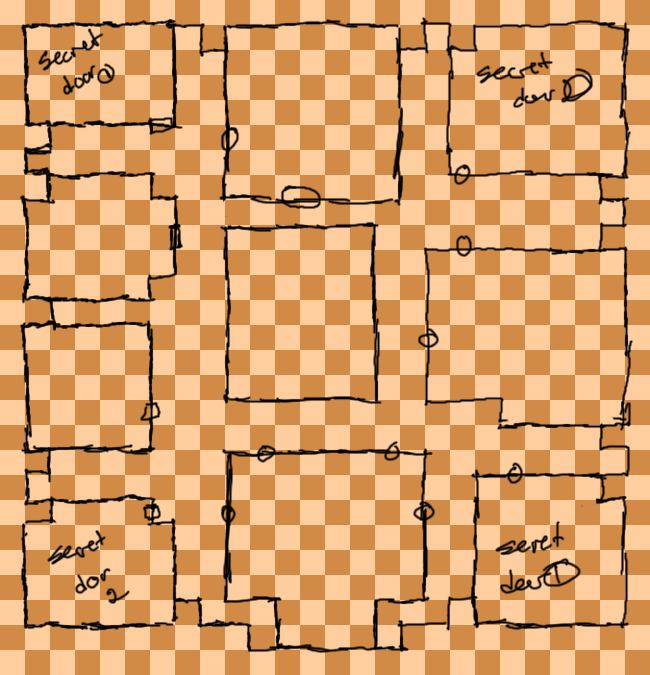
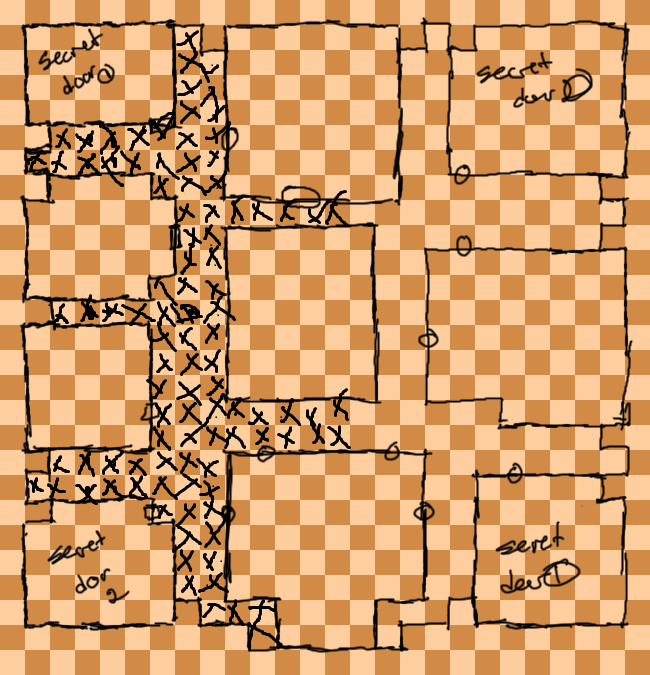
Added Graph Points

Changed region(s): [[0.0308, 0.0311, 0.5538, 0.9644], [0.4, 0.8711, 0.4308, 0.9022]]

diff --git a/js/classes/game.js b/js/classes/game.js
@@ -205,7 +205,155 @@ function Game(arr)
 	this.spaces.addEdge(new Point(6,19), new Point(7,19));
 	this.spaces.addEdge(new Point(6,19), "Cave");
 	
+	// x = 7
+	this.spaces.addEdge(new Point(7,1), new Point(7,2));
+	this.spaces.addEdge(new Point(7,2), new Point(8,2));
+	this.spaces.addEdge(new Point(7,2), new Point(7,3));
+	this.spaces.addEdge(new Point(7,3), new Point(8,3));
+	this.spaces.addEdge(new Point(7,3), new Point(7,4));
+	this.spaces.addEdge(new Point(7,4), new Point(8,4));
+	this.spaces.addEdge(new Point(7,4), new Point(7,5));
+	this.spaces.addEdge(new Point(7,5), new Point(8,5));
+	this.spaces.addEdge(new Point(7,5), new Point(7,6));
+	this.spaces.addEdge(new Point(7,6), new Point(8,6));
+	this.spaces.addEdge(new Point(7,6), new Point(7,7));
+	this.spaces.addEdge(new Point(7,7), new Point(8,7));
+	this.spaces.addEdge(new Point(7,7), new Point(7,8));
+	this.spaces.addEdge(new Point(7,8), new Point(8,8));
+	this.spaces.addEdge(new Point(7,8), new Point(7,9));
+	this.spaces.addEdge(new Point(7,9), new Point(8,9));
+	this.spaces.addEdge(new Point(7,9), "Tent");
+	this.spaces.addEdge(new Point(7,9), new Point(7,10));
+	this.spaces.addEdge(new Point(7,10), new Point(8,10));
+	this.spaces.addEdge(new Point(7,10), new Point(7,11));
+	this.spaces.addEdge(new Point(7,11), new Point(8,11));
+	this.spaces.addEdge(new Point(7,11), new Point(7,12));
+	this.spaces.addEdge(new Point(7,12), new Point(8,12));
+	this.spaces.addEdge(new Point(7,12), new Point(7,13));
+	this.spaces.addEdge(new Point(7,13), new Point(8,13));
+	this.spaces.addEdge(new Point(7,13), new Point(7,14));
+	this.spaces.addEdge(new Point(7,14), new Point(8,14));
+	this.spaces.addEdge(new Point(7,14), new Point(7,15));
+	this.spaces.addEdge(new Point(7,15), new Point(8,15));
+	this.spaces.addEdge(new Point(7,15), new Point(7,16));
+	this.spaces.addEdge(new Point(7,16), new Point(8,16));
+	this.spaces.addEdge(new Point(7,16), new Point(7,17));
+	this.spaces.addEdge(new Point(7,17), new Point(8,17));
+	this.spaces.addEdge(new Point(7,17), new Point(7,18));
+	this.spaces.addEdge(new Point(7,18), new Point(8,18));
+	this.spaces.addEdge(new Point(7,18), new Point(7,19));
+	this.spaces.addEdge(new Point(7,19), new Point(8,19));
+	this.spaces.addEdge(new Point(7,19), new Point(7,20));
+	this.spaces.addEdge(new Point(7,20), new Point(8,20));
+	this.spaces.addEdge(new Point(7,20), new Point(7,21));
+	this.spaces.addEdge(new Point(7,21), new Point(8,21));
+	this.spaces.addEdge(new Point(7,21), new Point(7,22));
+	this.spaces.addEdge(new Point(7,22), new Point(8,22));
+	this.spaces.addEdge(new Point(7,22), new Point(7,23));
+	this.spaces.addEdge(new Point(7,23), new Point(8,23));
 	
+	// x = 8
+	this.spaces.addEdge(new Point(8,2), new Point(8,3));
+	this.spaces.addEdge(new Point(8,3), new Point(8,4));
+	this.spaces.addEdge(new Point(8,4), new Point(8,5));
+	this.spaces.addEdge(new Point(8,5), "Garden");
+	this.spaces.addEdge(new Point(8,5), new Point(8,6));
+	this.spaces.addEdge(new Point(8,6), new Point(8,7));
+	this.spaces.addEdge(new Point(8,7), new Point(8,8));
+	this.spaces.addEdge(new Point(8,8), new Point(9,8));
+	this.spaces.addEdge(new Point(8,8), new Point(8,9));
+	this.spaces.addEdge(new Point(8,9), new Point(8,10));
+	this.spaces.addEdge(new Point(8,10), new Point(8,11));
+	this.spaces.addEdge(new Point(8,11), new Point(8,12));
+	this.spaces.addEdge(new Point(8,13), new Point(8,14));
+	this.spaces.addEdge(new Point(8,14), new Point(8,15));
+	this.spaces.addEdge(new Point(8,15), new Point(8,16));
+	this.spaces.addEdge(new Point(8,16), new Point(9,16));
+	this.spaces.addEdge(new Point(8,16), new Point(8,17));
+	this.spaces.addEdge(new Point(8,17), new Point(9,17));
+	this.spaces.addEdge(new Point(8,17), new Point(8,18));
+	this.spaces.addEdge(new Point(8,18), new Point(8,19));
+	this.spaces.addEdge(new Point(8,19), new Point(8,20));
+	this.spaces.addEdge(new Point(8,20), "Forest");
+	this.spaces.addEdge(new Point(8,20), new Point(8,21));
+	this.spaces.addEdge(new Point(8,21), new Point(8,22));
+	this.spaces.addEdge(new Point(8,22), new Point(8,23));
+	this.spaces.addEdge(new Point(8,23), new Point(8,24));
+	this.spaces.addEdge(new Point(8,24), new Point(9,24));
+	
+	// x = 9
+	this.spaces.addEdge(new Point(9,8), new Point(10,8));
+	this.spaces.addEdge(new Point(9,16), new Point(10,16));
+	this.spaces.addEdge(new Point(9,16), new Point(9,17));
+	this.spaces.addEdge(new Point(9,17), new Point(10,17));
+	this.spaces.addEdge(new Point(9,24), new Point(10,24));
+	
+	// x = 10
+	this.spaces.addEdge(new Point(10,8), new Point(11,8));
+	this.spaces.addEdge(new Point(10,16), new Point(11,16));
+	this.spaces.addEdge(new Point(10,16), new Point(10,17));
+	this.sapces.addEdge(new Point(10,17), new Point(11,17));
+	this.spaces.addEdge(new Point(10,17), "Ballroom");
+	this.spaces.addEdge(new Point(10,24), new Point(10,25));
+	
+	// x = 11
+	this.spaces.addEdge(new Point(11,8), new Point(12,8));
+	this.spaces.addEdge(new Point(11,8), "Garden");
+	this.spaces.addEdge(new Point(11,16), new Point(12,16));
+	this.spaces.addEdge(new Point(11,16), new Point(11,17));
+	this.spaces.addEdge(new Point(11,17), new Point(12,17));
+	
+	// x = 12
+	this.spaces.addEdge(new Point(12,8), new Point(13,8));
+	this.spaces.addEdge(new Point(12,8), "Garden");
+	this.spaces.addEdge(new Point(12,16), new Point(13,16));
+	this.spaces.addEdge(new Point(12,16), new Point(12,17));
+	this.spaces.addEdge(new Point(12,17), new Point(13,17));
+	
+	// x = 13
+	this.spaces.addEdge(new Point(13,8), new Point(14,8));
+	this.spaces.addEdge(new Point(13,16), new Point(14,16));
+	this.spaces.addEdge(new Point(13,16), new Point(13,17));
+	this.spaces.addEdge(new Point(13,17), new Point(14,17));
+	
+	// x = 14
+	this.spaces.addEdge(new Point(14,8), new Point(15,8));
+	this.spaces.addEdge(new Point(14,16), new Point(15,16));
+	this.spaces.addEdge(new Point(14,16), new Point(14,17));
+	this.spaces.addEdge(new Point(14,17), new Point(15,17));
+	
+	// x = 15
+	this.spaces.addEdge(new Point(15,8), new Point(16,8));
+	this.spaces.addEdge(new Point(15,8), new Point(15,9));
+	this.spaces.addEdge(new Point(15,9), new Point(16,9));
+	this.spaces.addEdge(new Point(15,9), new Point(15,10));
+	this.spaces.addEdge(new Point(15,10), new Point(16,10));
+	this.spaces.addEdge(new Point(15,10), new Point(15,11));
+	this.spaces.addEdge(new Point(15,11), new Point(16,11));
+	this.spaces.addEdge(new Point(15,11), new Point(15,12));
+	this.spaces.addEdge(new Point(15,12), new Point(16,12));
+	this.spaces.addEdge(new Point(15,12), new Point(15,13));
+	this.spaces.addEdge(new Point(15,14), new Point(16,14))
+	this.spaces.addEdge(new Point(15,14), new Point(15,15));
+	this.spaces.addEdge(new Point(15,15), new Point(16,15))
+	this.spaces.addEdge(new Point(15,15), new Point(15,16));
+	this.spaces.addEdge(new Point(15,16), new Point(16,16));
+	this.spaces.addEdge(new Point(15,16), new Point(15,17));
+	this.spaces.addEdge(new Point(15,17), new Point(16,17));
+	this.spaces.addEdge(new Point(15,17), "Forest));
+	
+	// x = 16
+	this.spaces.addEdge(new Point(
+	this.spaces.addEdge(new Point(
+	this.spaces.addEdge(new Point(
+	this.spaces.addEdge(new Point(
+	this.spaces.addEdge(new Point(
+	this.spaces.addEdge(new Point(
+	this.spaces.addEdge(new Point(
+	this.spaces.addEdge(new Point(
+	this.spaces.addEdge(new Point(
+	this.spaces.addEdge(new Point(
+	this.spaces.addEdge(new Point(
   }
   
   this.setGame = function()
